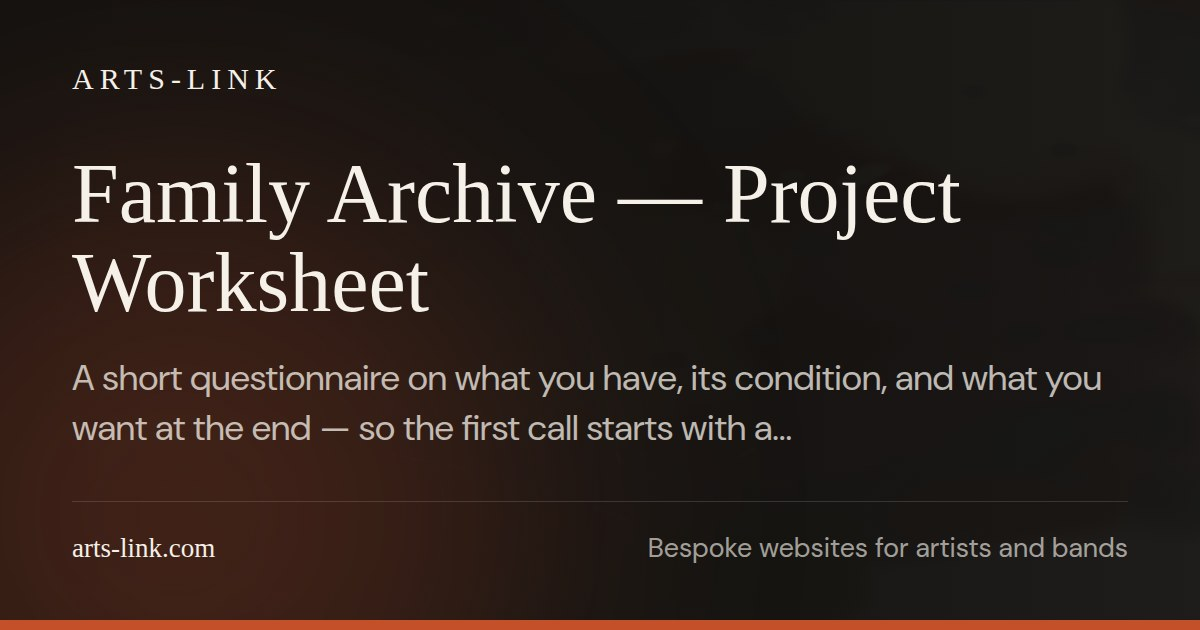
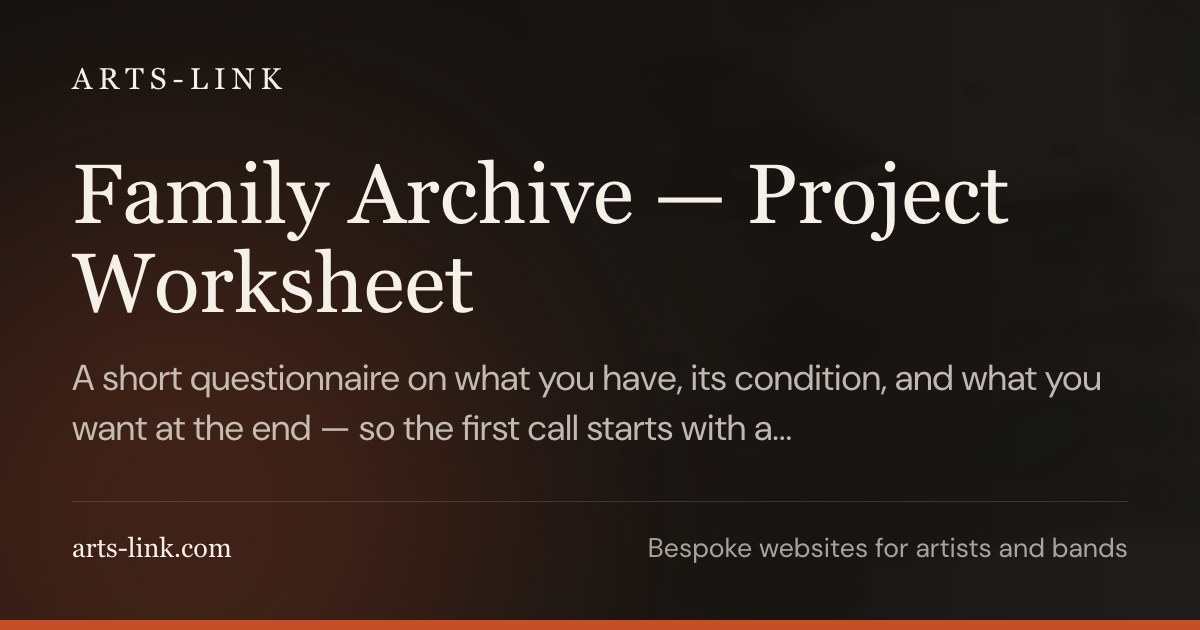
Add a private client hub at clients.arts-link.com (#43)

diff --git a/tailwind.config.js b/tailwind.config.js
@@ -1,10 +1,26 @@
 /** @type {import('tailwindcss').Config} */
 const defaultTheme = require("tailwindcss/defaultTheme");
 
+// The client hub (clients.arts-link.com) is built from this same repo with
+// `--environment clients`. Its layouts live under layouts/hub/, and its classes
+// have no business in the public stylesheet — so outside that build they are
+// excluded, keeping the public site's CSS exactly what it was.
+//
+// Hugo passes HUGO_ENVIRONMENT through to the PostCSS process; it is
+// "development" under `hugo server` and "production" for `hugo` builds.
+const isClients = process.env.HUGO_ENVIRONMENT === "clients";
+
 module.exports = {
   content: [
     "./hugo_stats.json",
     "./layouts/**/*.html",
+    ...(isClients
+      ? []
+      : [
+          "!./layouts/hub/**",
+          "!./layouts/partials/hub/**",
+          "!./layouts/shortcodes/hub/**",
+        ]),
   ],
   darkMode: 'class',
   theme: {

diff --git a/layouts/_default/baseof.html b/layouts/_default/baseof.html
@@ -85,10 +85,14 @@
 </head>
 <body>
   <div class="grain" aria-hidden="true"></div>
-  {{ partial "header.html" . }}
+  {{/* The clients build reaches this shell only for its 404 page. The public
+       header and footer link to /work/, /services/, /blog/ and /contact/, none
+       of which exist there — a 404 whose every link is another 404. */}}
+  {{- $clients := eq site.Params.env "clients" }}
+  {{ if $clients }}{{ partial "hub/header.html" . }}{{ else }}{{ partial "header.html" . }}{{ end }}
   <main>
     {{ block "main" . }}{{ end }}
   </main>
-  {{ partial "footer.html" . }}
+  {{ if $clients }}{{ partial "hub/footer.html" . }}{{ else }}{{ partial "footer.html" . }}{{ end }}
 </body>
 </html>

diff --git a/layouts/404.html b/layouts/404.html
@@ -9,7 +9,7 @@
     <a href="/" class="text-cream text-sm tracking-widest uppercase px-8 py-4 border border-ember hover:bg-ember transition-colors duration-200">
       Go home
     </a>
-    <a href="/work/" class="text-cream/40 hover:text-cream text-sm tracking-wide transition-colors">
+    <a href="https://www.arts-link.com/work/" class="text-cream/40 hover:text-cream text-sm tracking-wide transition-colors">
       See the work
     </a>
   </div>
